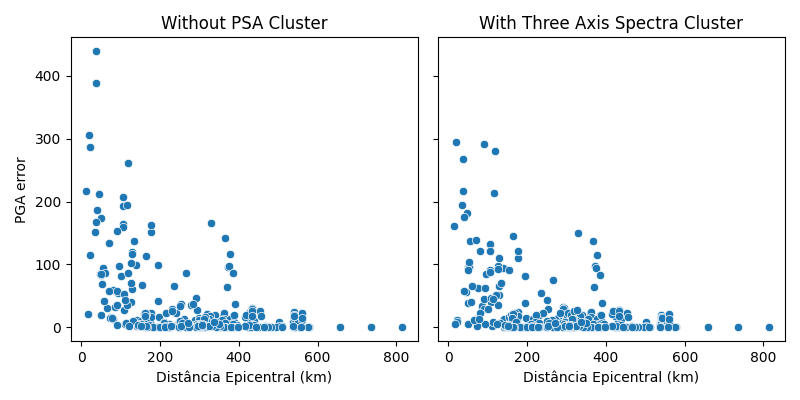
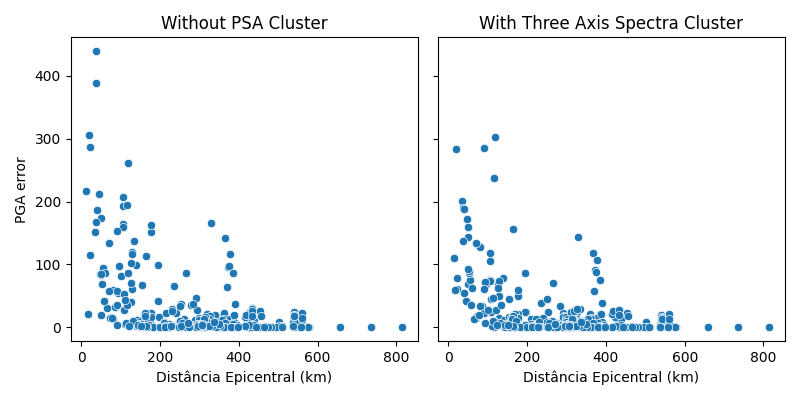
tuning xgb

Changed region(s): [[0.5625, 0.42, 0.8125, 0.84], [0.5625, 0.33, 0.625, 0.42]]

diff --git a/modeling.py b/modeling.py
@@ -275,7 +275,7 @@ def tune_xgboost(X_train: pd.DataFrame, y_train: pd.Series, groups: pd.Series,
         # Adicionamos 10% a mais (multiplicando por 1.1) porque no main.py 
         # o modelo final vai treinar com 100% dos dados (e não apenas os 80% do fold).
         # Logo, ele precisa de ligeiramente mais árvores para convergir.
-        # trial.set_user_attr("optimal_trees", int(np.mean(best_iterations) * 1.1))
+        trial.set_user_attr("optimal_trees", int(np.mean(best_iterations) * 1.1))
         return -np.mean(rmses)
 
     # Adiciona Sampler determinístico e Pruner (ignora as primeiras 5 trials do estudo antes de começar a podar)
